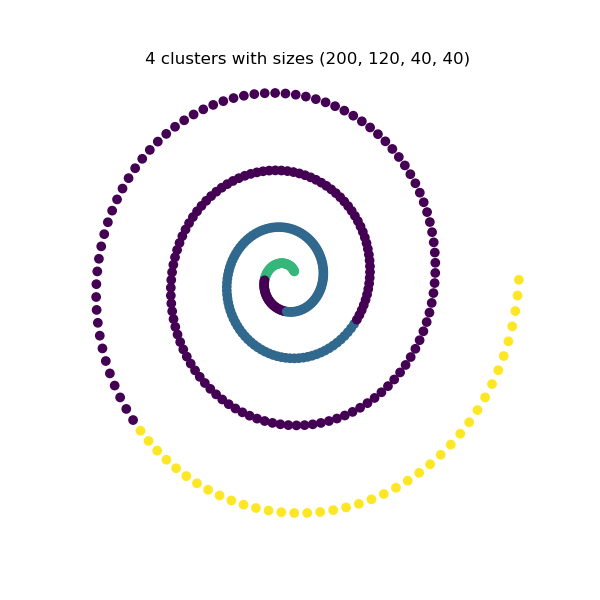
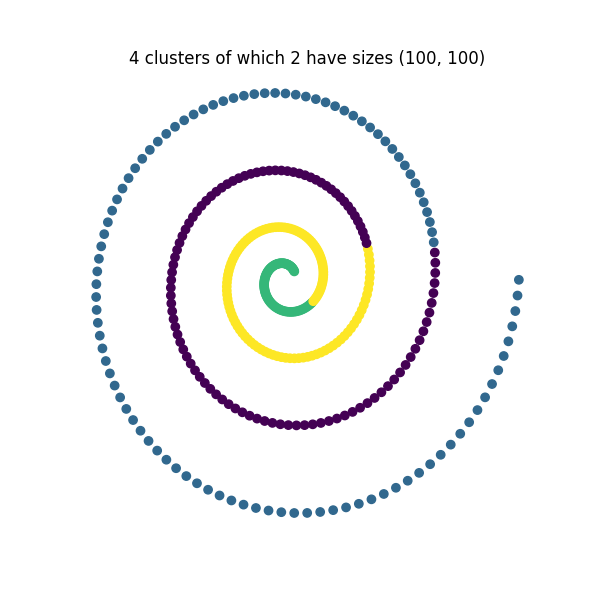
Added partial constraints example

diff --git a/examples/constrained_spectral_clustering.py b/examples/constrained_spectral_clustering.py
@@ -16,9 +16,9 @@ data = np.column_stack([x_coords, y_coords])
 n_clusters = 4
 
 constraints = [
-    [100, 100, 100, 100],
-    [200, 120, 40, 40],
-    [260, 120, 10, 10]
+    [100, 100],
+    [5, 5],
+    [388]
 ]
 
 for cluster_size in constraints:
@@ -35,5 +35,5 @@ for cluster_size in constraints:
     plt.xlabel('X')
     plt.ylabel('Y')
     plt.axis('off')
-    plt.title(f'{n_clusters} clusters with sizes {*cluster_size,}')
+    plt.title(f'{n_clusters} clusters of which {len(cluster_size)} have sizes {*cluster_size,}')
     plt.show()

diff --git a/docs_src/examples/index.rst b/docs_src/examples/index.rst
@@ -1,6 +1,10 @@
-Clustering Euclidean Data
-==========================
-In the following code, we give an example for constrained spectral clustering on a toy grid dataset using different size constraints.
+`k`-Means with exhaustive constraints
+========================================
+In the following code, we give an example for constrained spectral clustering on a toy grid dataset using different
+exhaustive size constraints.
+
+
+We start by creating a data point which form a uniform 2D grid:
 
 .. code-block:: python
 
@@ -15,6 +19,12 @@ In the following code, we give an example for constrained spectral clustering on
 
     data = np.column_stack([x_coords.reshape(-1), y_coords.reshape(-1)])
 
+
+Assume we wish to partition this grid into 4 groups with different cluster distributions. The :math:`k`-means algorithm is
+a good choice for this kind of data. We create these different distributions as follows:
+
+.. code-block:: python
+
     n_clusters = 4
 
     constraints = [
@@ -22,6 +32,14 @@ In the following code, we give an example for constrained spectral clustering on
         [200, 120, 40, 40],
         [260, 120, 10, 10]
     ]
+
+
+These constraints are exhaustive in the sense that each constraint list sums to the total number of data points
+in the grid and there are 4 values in each list, one for each cluster.
+
+Finally, we run the algorithm for each different constraint and create plots for the results:
+
+.. code-block:: python
 
     for cluster_size in constraints:
         _, labels, _ = constrained_k_means(data,
@@ -34,6 +52,7 @@ In the following code, we give an example for constrained spectral clustering on
         plt.xlabel('X')
         plt.ylabel('Y')
         plt.axis('off')
+
         plt.title(f'{n_clusters} clusters with sizes {*cluster_size,}')
         plt.show()
 
@@ -51,10 +70,16 @@ In the following code, we give an example for constrained spectral clustering on
 
    .. image:: /_static/km3.png
 
-Clustering Graph Data
-=============================
+We see how each resulting partition respects its corresponding constraint exactly.
 
-The following example shows a code snippet for constrained spectral clustering on a toy spiral dataset for different cluster size constraints.
+
+Spectral clustering with partial constraints
+==============================================================
+
+The following example shows an example for constrained spectral clustering on a toy spiral dataset for
+different cluster partial size constraints.
+
+We start by creating the 2D spiral:
 
 .. code-block:: python
 
@@ -73,13 +98,24 @@ The following example shows a code snippet for constrained spectral clustering o
 
     data = np.column_stack([x_coords, y_coords])
 
+
+We then create a set of different constraints for our algorithm for partitioning the spiral into 4 clusters.
+
+.. code-block:: python
+
     n_clusters = 4
 
     constraints = [
-        [100, 100, 100, 100],
-        [200, 120, 40, 40],
-        [260, 120, 10, 10]
+        [100, 100],
+        [5, 5],
+        [388]
     ]
+
+
+Since this data is in a spiral, constrained spectral clustering is a better choice than :math:`k`-means to create a
+nearest neighbors graph and generate a different partition for each constraint. At the end, we plot the results:
+
+.. code-block:: python
 
     for cluster_size in constraints:
         labels = ConstrainedSpectralClustering(
@@ -95,7 +131,7 @@ The following example shows a code snippet for constrained spectral clustering o
         plt.xlabel('X')
         plt.ylabel('Y')
         plt.axis('off')
-        plt.title(f'{n_clusters} clusters with sizes {*cluster_size,}')
+        plt.title(f'{n_clusters} clusters of which {len(cluster_size)} have sizes {*cluster_size,}')
         plt.show()
 
 
@@ -111,3 +147,5 @@ The following example shows a code snippet for constrained spectral clustering o
    .. image:: /_static/sc2.png
 
    .. image:: /_static/sc3.png
+
+We see how in each case, there exists clusters with the desired sizes while the remaining cluster sizes are free.

diff --git a/README.md b/README.md
@@ -3,11 +3,14 @@
 [![PyPI version](https://badge.fury.io/py/ccluster.svg)](https://pypi.org/project/ccluster)
 
 *ccluster* is a library for performing clustering with exhaustive or partial cluster size constraints. 
-It provides two constrained clustering algorithms: a constrained *k*-means suitable for euclidean data, and a constrained graph clustering algorithm based on spectral clustering.
+It currently provides two constrained clustering algorithms: a constrained *k*-means suitable for euclidean data, and a constrained graph clustering algorithm based on spectral clustering.
 
-| ![k-means example 1](https://github.com/chakib401/ccluster/blob/main/docs_src/_static/km1.png)             | ![k-means example 2](https://github.com/chakib401/ccluster/blob/main/docs_src/_static/km2.png)             | ![k-means example 3](https://github.com/chakib401/ccluster/blob/main/docs_src/_static/km3.png)            |
+
+For more details, please refer to the [documentation](https://ccluster.readthedocs.io/). 
+
+| ![k-means example 1](https://raw.githubusercontent.com/chakib401/ccluster/main/docs_src/_static/km1.png)             | ![k-means example 2](https://raw.githubusercontent.com/chakib401/ccluster/main/docs_src/_static/km2.png)             | ![k-means example 3](https://raw.githubusercontent.com/chakib401/ccluster/main/docs_src/_static/km3.png)            |
 |----------------------------------------------------------|----------------------------------------------------------|---------------------------------------------------------|
-| ![spectral clustering example 1](https://github.com/chakib401/ccluster/blob/main/docs_src/_static/sc1.png) | ![spectral clustering example 2](https://github.com/chakib401/ccluster/blob/main/docs_src/_static/sc2.png) | ![spectral clustering example 3](https://github.com/chakib401/ccluster/blob/main/docs_src/_static/sc3.png) |
+| ![spectral clustering example 1](https://raw.githubusercontent.com/chakib401/ccluster/main/docs_src/_static/sc1.png) | ![spectral clustering example 2](https://raw.githubusercontent.com/chakib401/ccluster/main/docs_src/_static/sc2.png) | ![spectral clustering example 3](https://raw.githubusercontent.com/chakib401/ccluster/main/docs_src/_static/sc3.png) |
 
 ### Installation
 

diff --git a/docs_src/index.rst b/docs_src/index.rst
@@ -1,10 +1,33 @@
-ccluster
-========
+ccluster: a package for clustering with size constraints
+=========================================================
 
-*ccluster* is a library for performing clustering with exhaustive or partial cluster size constraints.
+*ccluster* is a library for performing clustering with exhaustive or
+partial cluster size constraints. It currently provides two constrained clustering
+algorithms: a constrained *k*-means suitable for euclidean data, and a
+constrained graph clustering algorithm based on spectral clustering.
 
-It provides two constrained clustering algorithms: a constrained *k*-means suitable for euclidean data, and a constrained graph clustering algorithm based on spectral clustering.
++-----------------------+-----------------------+----------------------+
+| |k-means example 1|   | |k-means example 2|   | |k-means example 3|  |
++=======================+=======================+======================+
+| |spectral clustering  | |spectral clustering  | |spectral clustering |
+| example 1|            | example 2|            | example 3|           |
++-----------------------+-----------------------+----------------------+
 
+
+.. |k-means example 1| image:: https://raw.githubusercontent.com/chakib401/ccluster/main/docs_src/_static/km1.png
+.. |k-means example 2| image:: https://raw.githubusercontent.com/chakib401/ccluster/main/docs_src/_static/km2.png
+.. |k-means example 3| image:: https://raw.githubusercontent.com/chakib401/ccluster/main/docs_src/_static/km3.png
+.. |spectral clustering example 1| image:: https://raw.githubusercontent.com/chakib401/ccluster/main/docs_src/_static/sc1.png
+.. |spectral clustering example 2| image:: https://raw.githubusercontent.com/chakib401/ccluster/main/docs_src/_static/sc2.png
+.. |spectral clustering example 3| image:: https://raw.githubusercontent.com/chakib401/ccluster/main/docs_src/_static/sc3.png
+
+
+.. toctree::
+   :maxdepth: 1
+   :hidden:
+   :caption: Getting Started
+
+   intro.rst
 
 .. toctree::
    :maxdepth: 1

diff --git a/docs_src/intro.rst b/docs_src/intro.rst
@@ -1,0 +1,59 @@
+Installation
+~~~~~~~~~~~~
+
+This package is available on Pypi. It can be installed as follows:
+
+.. code:: bash
+
+   pip install ccluster
+
+A set of dependencies will also be installed. It can also be installed directly from the source code which can be found on the
+`project's github page <https://github.com/chakib401/ccluster>`_.
+
+
+Quick-start
+~~~~~~~~~~~
+
+Here is an example of using constrained :math:`k`-means with exhaustive
+constraints i.e. giving a size constraint for each cluster:
+
+.. code:: python
+
+   >>> from ccluster.size import ConstrainedKMeans
+   >>> import numpy as np
+
+   >>> X = np.array([[1, 2], [1, 4], [1, 0],
+   ...               [10, 2], [10, 4], [10, 0]])
+   >>> kmeans = ConstrainedKMeans(
+   ...     n_clusters=2,
+   ...     cluster_size=[2, 4],
+   ...     random_state=0,
+   ...     n_init=10).fit(X)
+   >>> kmeans.labels_
+   # array([1, 1, 1, 0, 0, 1])
+   >>> kmeans.predict([[0, 0], [12, 3]], [1, 1])
+   # array([1, 0], dtype=int32)
+   >>> kmeans.cluster_centers_
+   # array([[10. , 3. ],
+   #        [ 3.25, 1.5 ]])
+
+It is also possible to specify partial constraints i.e. constraints on a
+subset of the clusters and leave the remaining ones free. Here is an
+example using constrained spectral clustering:
+
+.. code:: python
+
+   >>> from ccluster.size import ConstrainedSpectralClustering
+   >>> import numpy as np
+
+   >>> X = np.array([[1, 1], [2, 1], [1, 0],
+   ...               [4, 7], [3, 5], [3, 6],
+   ...               [9, 6], [5, 4], [2, 1]])
+
+   >>> spectral = ConstrainedSpectralClustering(
+   ...     n_clusters=4,
+   ...     cluster_sizes=[2, 2],
+   ...     random_state=0).fit(X)
+
+   >>> spectral.labels_
+   # array([2, 3, 2, 0, 3, 0, 1, 1, 3])

diff --git a/docs_src/api/index.rst b/docs_src/api/index.rst
@@ -1,12 +1,14 @@
+
 ConstrainedKMeans
 ===========================
 
 .. autoclass:: ccluster.size.ConstrainedKMeans
+    :noindex:
     :members:
 
 ConstrainedSpectralClustering
 ===========================
 
 .. autoclass:: ccluster.size.ConstrainedSpectralClustering
+    :noindex:
     :members:
-
